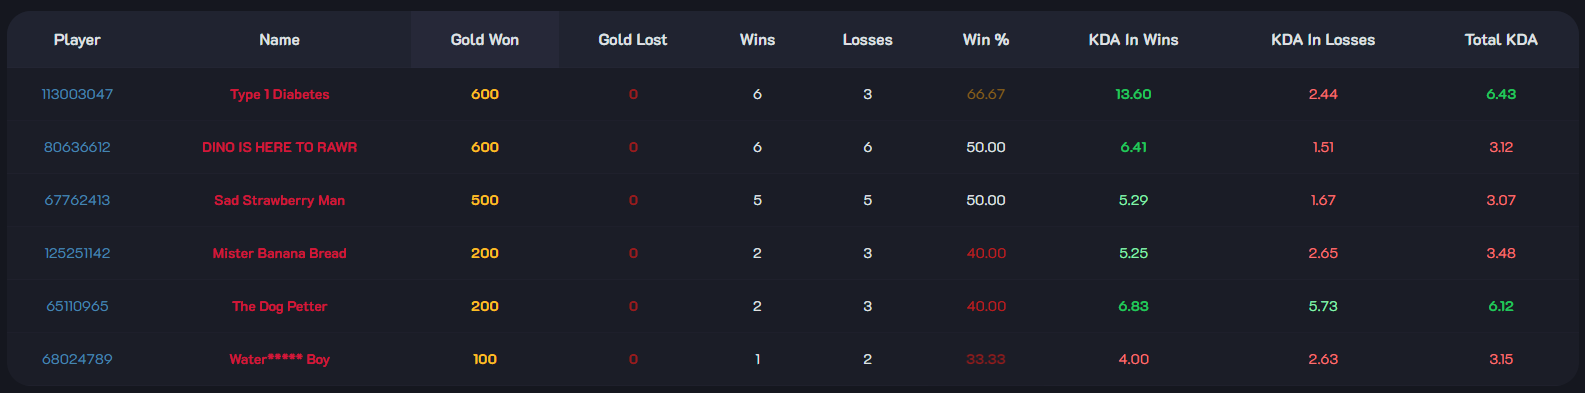
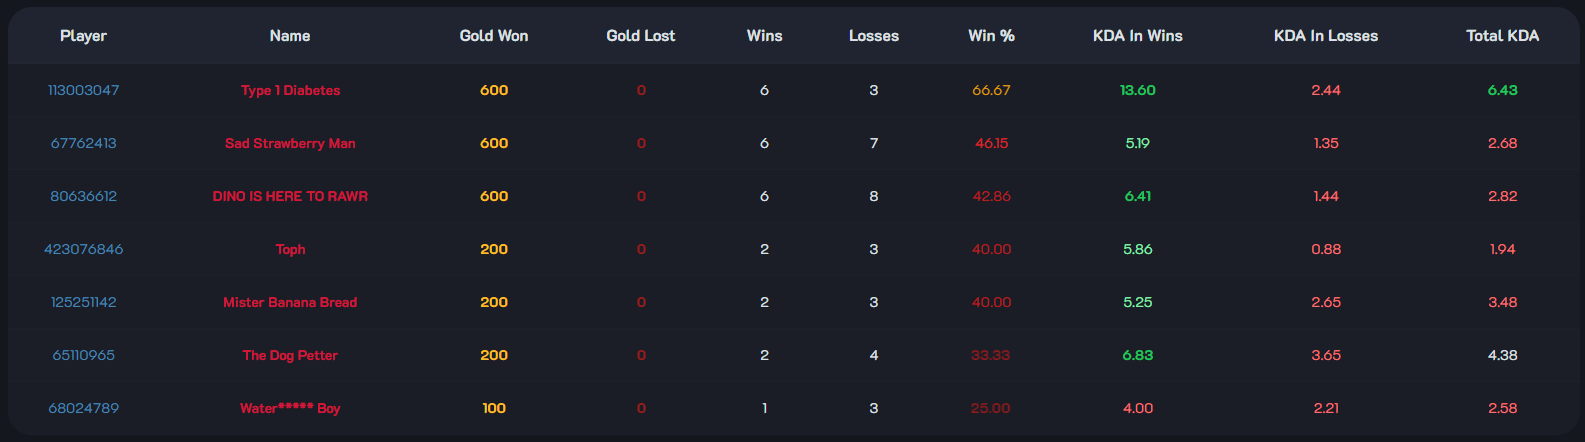
Fixed blog post and turbotown home

diff --git a/src/routes/turbotown/+page.svelte b/src/routes/turbotown/+page.svelte
@@ -30,6 +30,7 @@
 	import { Avatar, ProgressBar } from '@skeletonlabs/skeleton';
 	import HeroGrid from '$lib/components/HeroGrid/HeroGrid.svelte';
 	import SeasonLeaderboard from '../leagues/[slug]/seasons/[slug]/SeasonLeaderboard.svelte';
+	import TurbotownIntro from '$lib/components/TurbotownIntro.svelte';
 
 	//data
 	export let data: PageData;
@@ -96,19 +97,14 @@
 </script>
 
 <div class="container">
+	<TurbotownIntro/>
 	<!-- <div>
 		<HeroGrid heroes={data.heroDescriptions.allHeroes}/>
 	</div> -->
-	<SeasonHeaderCard data={data}></SeasonHeaderCard>
-	<!-- <button
-		class="btn variant-filled"
-		on:click={() => {
-			modalStore.trigger(modal);
-		}}>Modal</button
-	> -->
-	<div class="flex flex-col space-y-4 justify-center items-center">
+	<!-- <SeasonHeaderCard data={data}></SeasonHeaderCard> -->
+	<!-- <div class="flex flex-col space-y-4 justify-center items-center">
 		{#if data.league.currentSeason && data.league.currentSeason.turbotowns}
 			<SeasonLeaderboard turbotowns={data.league.currentSeason.turbotowns} members={data.league.leagueAndSeasonsResult[0].members} randoms={data.league.currentSeason.randoms}/>
 		{/if}
-	</div>
+	</div> -->
 </div>

diff --git a/src/routes/_components/Navigation/Navigation.svelte b/src/routes/_components/Navigation/Navigation.svelte
@@ -81,7 +81,7 @@
 				class={'flex items-center justify-start rounded-full ' +
 					($page.url.pathname === route.path ? 'border border-secondary-500/60' : '')}
 			>
-				<a href="/" data-sveltekit-preload-data="tap" class="w-full">
+				<a href={route.path} data-sveltekit-preload-data="tap" class="w-full">
 					<i class={route.iconClassAndColor} />
 					<p class={$page.url.pathname === route.path ? 'font-bold' : ''}>{route.label}</p></a
 				>

diff --git a/src/posts/january-release.md b/src/posts/january-release.md
@@ -1,7 +1,7 @@
 ---
 title: Turbodota January Release is Here!
-description: Quest Board, Shop, Observer Ward, XP, and more now available.
-date: '2024-01-20'
+description: Turbotown, Quest Board, Shop, Observer Ward, XP, and more now available.
+date: '2024-01-19'
 categories:
   - TurboTown
   - MajorRelease
@@ -12,8 +12,6 @@ published: true
   import { base } from "$app/paths";
 </script>
 Greetings Turbodota challengers! 👋
-
-## Welcome to the January release of Turbodota.
 
 The Turbodota team is excited for our first major release of 2024. This release includes some modifications to improve the competitiveness of the next season as well as new functionality to change up your experience. We regret to inform you that due to an entire overhaul of infrastructure required for this update we are going to be ending Season 2 early and starting a fresh new season so everyone can compete fairly!
 
@@ -30,12 +28,18 @@ The Turbodota team is excited for our first major release of 2024. This release 
     * Players can now access the shop to buy items to strategically improve their TurboTown
     * New Item - Observer Ward: When used a player gets to choose between 3 random options for their next quest.
 
-### INSERT REAL PIC WHEN READY
+## Season 2 Recap
+<img src="https://media.tenor.com/bdzTE4CeYakAAAAM/mother-of-god.gif">
+
+**We have a 3 way tie for first place in Season 2! Congrats to Dan, Walker, and Martin for finishing at the top with 600 gold. Ties are broken on Win %, so Dan is the Season 2 winner.**
+
+Congrats Dan on winning season 2, that is back to back championships for him! Can the Beast from the East be stopped?
+
 <img src="{base}/season2leaderboard.png">
 
 Some quick stats on Season 2:
 
-### 33 Randoms completed
+### 56 Randoms completed
 
 | Category | Player |
 | -------- | ------ |
@@ -46,8 +50,8 @@ Some quick stats on Season 2:
 | 2nd Best KDA | **Rocco** |
 | Best Dev Effort | **Roberts** |
 | Lowest Win Rate | **Ben** |
+| Most Putrid Core Performance on Season End Date | **Chris** |
 
-Congrats Dan on winning season 2, that is back to back championships for him!
 --- 
 
 Thanks, and good luck with season 3!
